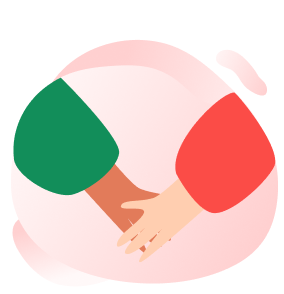
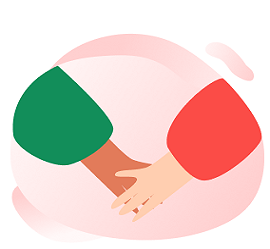
resized the hole page and added {Red-hat} font to all

diff --git a/style.css b/style.css
@@ -1,18 +1,18 @@
 *{margin: 0;padding: 0; box-sizing: border-box;}
 @import url('https://fonts.googleapis.com/css2?family=Questrial&family=Red+Hat+Display:wght@400;500;700;900&display=swap');
-body{ }
+body{ font-family: 'Red Hat Display', sans-serif;}
 .fl{float:left;}
 .fr{float: right;}
 .fix{overflow: hidden;}
-h1{ font-size: 22px;color: #035755;font-family: 'Red Hat Display', sans-serif;}
+h1{ font-size: 28px;color: #035755;font-family: 'Red Hat Display', sans-serif;}
 h2{font-family: 'Red Hat Display', sans-serif; }
 h3{color: #035755;font-family: 'Red Hat Display', sans-serif; }
-h4{color: #FA5652;font-family: 'Red Hat Display', sans-serif;font-size: 14px;font-weight:800; }
-p{ font-size: 10px; color:black;font-family: 'Questrial', sans-serif; opacity: 0.6;}
+h4{color: #FA5652;font-family: 'Red Hat Display', sans-serif;font-size: 19px;font-weight:800; }
+p{ font-size: 13px; color:black;font-family: 'Questrial', sans-serif; opacity: 0.6;}
 h2{font-size: 35px;color: #035755;font-family: 'Red Hat Display', sans-serif;}
 ul li{list-style: none;display: inline-block;}
-ul li a{text-decoration: none ; font-size: 10px;color: #035755;font-family: 'Questrial', sans-serif; }
-a{text-decoration: none;font-size: 12px;}
+ul li a{text-decoration: none ; font-size: 16px;color: #035755;font-family: 'Questrial', sans-serif; }
+a{text-decoration: none;font-size: 16px;}
 /* img{width: 100%;} */
 .fullSize{width: 100%;}
 .WidthHundread{width: 100%;}
@@ -23,8 +23,8 @@ a{text-decoration: none;font-size: 12px;}
 
 /* sizing css starts here */
 /* .container{width:min(960px,96%);margin:0 auto; } */
-.container{max-width: 960px;width: 96%;margin:0 auto; background-color: #fffbfb;}
-.structure{width: 70%;margin:0 auto;}
+.container{width: 96%;margin:0 auto; background-color: #fffbfb;}
+.structure{width: 80%;margin:0 auto;}
 /* sizing css ends here *
 
 /* Header Section Starts Here  */
@@ -33,22 +33,22 @@ a{text-decoration: none;font-size: 12px;}
     padding: 20px 0px 20px 0px;
 }
 .logo {
-    width: 15%;
+    width: 18%;
 }
 .logoIMg {
     width:100% ;
 }
 .navMenu {
-    width: 70%;
+    width: 68%;
 }
 .navMenu ul{ 
     text-align: right;
 }
 .navMenu ul li{
-    padding: 7px 1px 5px 1px;
+    padding: 11px 1px 5px 1px;
 }
 .navMenu ul li a{
-    margin: 0px 2px 0px 2px;
+    margin: 0px 11px 0px 11px;
     position: relative;
 }
 .navMenu ul li a::before{
@@ -85,7 +85,7 @@ a{text-decoration: none;font-size: 12px;}
 .containerBtn a{
         border-radius: 60px;
         border: 2px solid #FF383D;
-        padding: 6px 17px 7px 17px;
+        padding: 6px 25px 7px 28px;
         color: #FF383D;
         box-shadow: 0px 0px 5px #9d9d9d;
 }
@@ -104,7 +104,7 @@ a{text-decoration: none;font-size: 12px;}
     content: "";
     position: absolute;
     z-index: -1;
-    height: 87%;
+    height: 126%;
     width: 56%;
     top: 20px;
     right: 0px;
@@ -119,11 +119,15 @@ a{text-decoration: none;font-size: 12px;}
     margin-bottom: 10px;
 }
 .bannerHone {
-    width: 46%;
+    width: 31%;
     margin-bottom: 20px;
+    font-weight: 700;
+}
+.bannerHone h1{
+    font-weight: 700;
 }
 .BannerPone {
-    width: 45%;
+    width: 34%;
     margin-bottom: 30px;
 }
 .BannerPone p{
@@ -135,7 +139,7 @@ a{text-decoration: none;font-size: 12px;}
     background-color: #FB4C47;
     box-shadow: 0px 0px 5px #9d9d9d;
     border-radius: 41px;
-    font-size: 10px;
+    font-size: 12px;
     color: white;
 }
 .BAnnerBUtton a:hover{
@@ -147,7 +151,7 @@ a{text-decoration: none;font-size: 12px;}
 /* Banner Section Ends here */
 /* Intro to covid starts here */
 .whatISCOvid{
-    padding: 50px 0px;
+    padding: 200px 0px;
     position: relative;
     z-index: 1;
 }
@@ -155,10 +159,10 @@ a{text-decoration: none;font-size: 12px;}
     content: '';
     position: absolute;
     z-index: -1;
-    height: 91%;
-    width: 46%;
-    top: 0px;
-    left: 17px;
+    height: 75%;
+    width: 43%;
+    top: 81px;
+    left: 40px;
     background-image: url(images/introToCovidBgImg.png);
     background-repeat: no-repeat;
     background-size: cover;
@@ -172,28 +176,28 @@ a{text-decoration: none;font-size: 12px;}
     content: '';
     position: absolute;
     z-index: -1;
-    height: 58%;
-    width: 15%;
+    height: 78%;
+    width: 13%;
     right: -144px;
-    bottom: -51px;
+    bottom: -120px;
     background-image: url(images/introToCovidCoronaBg1.png);
     background-repeat: no-repeat;
     background-size: cover;
 }
 .textLocator{
-    width: 52%;
-    margin: 0px 0px 0px 350px;
+    width: 39%;
+    margin: 0px 0px 0px 630px;
     position: relative;
-    z-index: 1;
+    z-index: 1;;
 }
 .textLocator::before{
     content: '';
     position: absolute;
     z-index: -1;
-    height: 40%;
-    width: 22%;
-    right: -69px;
-    bottom: -136px;
+    height: 55%;
+    width: 27%;
+    right: -75px;
+    bottom: -303px;
     background-image: url(images/introToCovidCoronaBg2.png);
     background-repeat: no-repeat;
     background-size: cover;
@@ -221,7 +225,7 @@ a{text-decoration: none;font-size: 12px;}
     background-color: #fddfde;
     box-shadow: 0px 0px 5px #9d9d9d;
     border-radius: 41px;
-    font-size: 9px;
+    font-size: 12px;
     color: #FA5652;
 }
 .introBUtton a:hover{
@@ -241,10 +245,10 @@ a{text-decoration: none;font-size: 12px;}
     content: '';
     z-index: -1;
     position: absolute;
-    height: 23%;
+    height: 29%;
     width: 7%;
-    top: 343px;
-    left: 87px;
+    top: 370px;
+    left: 60px;
     background-image: url(images/contaigonAreaBgCoronaImh.png);
     background-repeat: no-repeat;
     background-size: cover;
@@ -414,8 +418,9 @@ a{text-decoration: none;font-size: 12px;}
     border-radius: 50%;
     background-color: #ffc4c3;
     color: #FA5652;
-    padding: 7px;
-    font-size: 14px;
+    padding: 8px;
+    font-size: 18px;
+    font-weight: 700;
 }
 .WhatToDoCartHone {
     margin-bottom: 10px;
@@ -435,7 +440,7 @@ a{text-decoration: none;font-size: 12px;}
     width: 65%;
 }
 .toAlignCartONE {
-    margin: 50px 170px 0px 0px;
+    margin: 100px 170px 0px 0px;
 }
 .toAlignCartTWO{
     margin: 0px 0px 0px 165px;
@@ -500,13 +505,13 @@ a{text-decoration: none;font-size: 12px;}
     z-index: 1;
 }
 .statBar::before{
-    content: '';
+    content: "";
     position: absolute;
     z-index: -1;
-    height: 70%;
-    width: 56%;
-    top: 58px;
-    left: 53px;
+    height: 65%;
+    width: 50%;
+    top: 70px;
+    left: 115px;
     background-image: url(images/LiveReportsMapBg.png);
     background-repeat: no-repeat;
     background-size: cover;
@@ -525,10 +530,10 @@ a{text-decoration: none;font-size: 12px;}
     content: '';
     position: absolute;
     z-index: -1;
-    height: 36%;
-    width: 8%;
-    right: 109px;
-    top: 20px;
+    height: 45%;
+    width: 7%;
+    right: 120px;
+    top: -7px;
     background-image: url(images/footerCoronaBgImg1.png);
     background-repeat: no-repeat;
     background-size: cover;
@@ -541,10 +546,10 @@ a{text-decoration: none;font-size: 12px;}
     content: '';
     position: absolute;
     z-index: -1;
-    height: 82%;
-    width: 14%;
-    right: -144px;
-    bottom: -84px;
+    height: 98%;
+    width: 10%;
+    right: -145px;
+    bottom: -91px;
     background-image: url(images/footerCoronaBgImg2.png);
     background-repeat: no-repeat;
     background-size: cover;
@@ -566,15 +571,15 @@ a{text-decoration: none;font-size: 12px;}
 .FOrmInputs{
     padding: 4px 4px;
     border-radius: 28px;
-    width: 66%;
+    width: 47%;
     margin: 0 auto;
     background-color: rgb(255, 255, 255);
-    box-shadow: 0px 0px 10px #9d9d9d;
+    box-shadow: 0px 0px 2px #9d9d9d;
 }
 .FOrmInputs input[type=text] {
     border: none;
     border-radius: 26px;
-    font-size: 9px;
+    font-size: 12px;
     padding: 17px 11px;
     width: 73%;
     background-color: white;
@@ -586,8 +591,10 @@ a{text-decoration: none;font-size: 12px;}
     border-radius: 30px;
     padding: 15px 1px;
     width: 23%;
-    font-size: 10px;
-}.FOrmInputs input[type=submit]:hover{
+    font-size: 13px;
+    font-weight: 700;
+}
+.FOrmInputs input[type=submit]:hover{
     color:#ff110d; ;
     background-color: #ffacaa;;
     box-shadow: 0px 0px 10px #9d9d9d;
@@ -608,7 +615,7 @@ a{text-decoration: none;font-size: 12px;}
 }
 
 .footerLogoImg {
-    width: 80%;
+    width: 59%;
 }
 
 .footerMenu {
@@ -618,7 +625,7 @@ a{text-decoration: none;font-size: 12px;}
     text-align: right;
 }
 .footerMenu ul li{
-    padding: 7px 1px 5px 1px;
+    padding: 14px 1px 5px 1px;
 }
 .footerMenu ul li a{
     margin: 0px 5px 0px 5px;
@@ -629,6 +636,7 @@ a{text-decoration: none;font-size: 12px;}
     color: #FA5652;
 }
 .socialArea {
+    margin-top: 9px;
     width: 25%;
     margin-right: 10px;
 }
@@ -641,7 +649,7 @@ a{text-decoration: none;font-size: 12px;}
 }
 .cpyR8Section {
     text-align: center;
-    margin-bottom: 10px;
+    margin-bottom: 50px;
 }
 
 /* Footer Section Ends Here */

diff --git a/index.html b/index.html
@@ -58,7 +58,7 @@
                             <h4> What is Covid-19</h4>
                         </div>
                         <div class="introHone">
-                            <h1>Corona VIrus</h1>
+                            <h1>Coronavirus</h1>
                         </div>
                         <div class="introPone">
                           <p>  Lorem ipsum dolor sit amet consectetur adipisicing elit. Explicabo, ut temporibus id quam illo dolorum! Lorem ipsum, dolor sit amet consectetur adipisicing elit. Autem totam voluptas dignissimos asperiores maiores repellat dicta perspiciatis est cumque veniam sapiente velit quos harum dolorem, veritatis neque reprehenderit praesentium nisi.</p>
@@ -292,9 +292,9 @@
                         </div>
                         <div class="socialArea fr">
                             <a href="#"><img src="images/footerFbLogoIMg.png" alt=""></a>
-                            <a href="#"><img src="images/footertwetterLogoIMg.png" alt=""></a>
-                            <a href="#"><img src="images/footerVivoLogoIMg.png" alt=""></a>
                             <a href="#"><img src="images/footerYoutubeLogoIMg.png" alt=""></a>
+                            <a href="#"><img src="images/footerVivoLogoIMg.png" alt=""></a>
+                            <a href="#"><img src="images/footertwetterLogoIMg.png" alt=""></a>
                         </div>
                     </div>
                     <div class="cpyR8Section">
